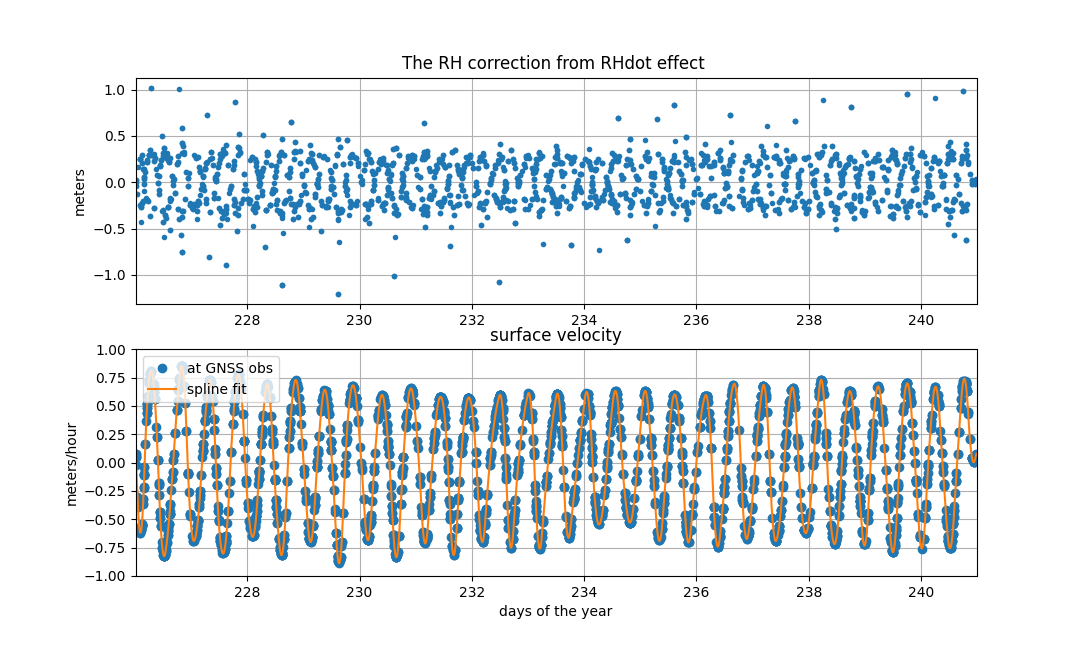
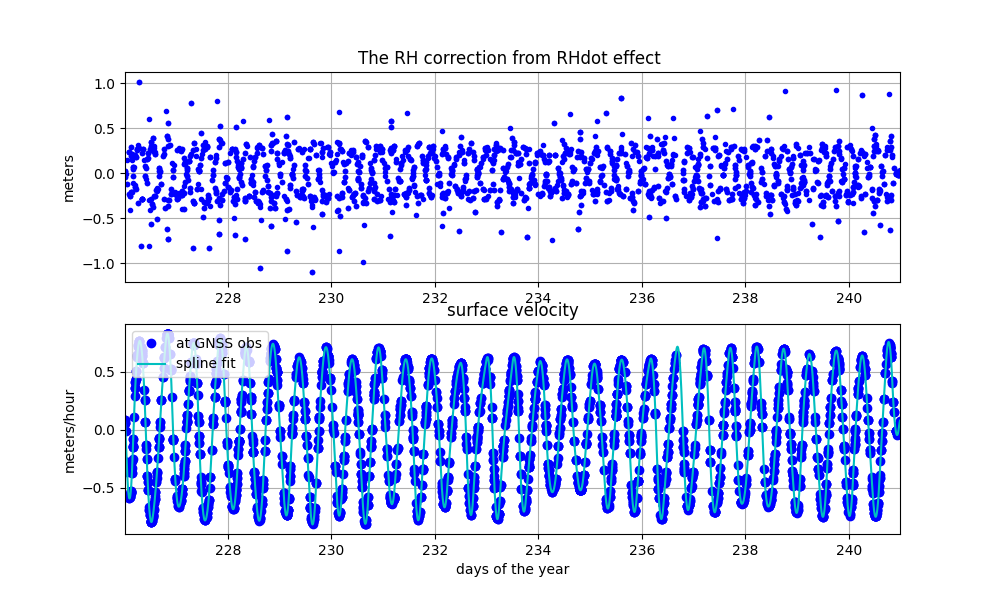
updated tggo use case

Changed region(s): [[0.062, 0.54, 0.899, 0.96], [0.062, 0.06, 0.899, 0.54]]

diff --git a/docs/use_cases/use_tggo.md b/docs/use_cases/use_tggo.md
@@ -30,7 +30,7 @@ We will compare that value with the estimated reflector height.
 ### Make a SNR file 
 
 Because the GNSS station is ~12 meters above the water, we are too close to the L1 Nyquist 
-for a receiver that is sampling at 30 seconds.  **I strongly urge you to use the 15 second files** that BFG started 
+for a receiver that is sampling at 30 seconds.  **You need to use the 15 second files** that BFG started 
 producing in summer 2022. If you use the 30 second files, some of your solutions will be inaccurate. Make the following choices:
 
 station : tggo00deu (the longer station name will tell the code to find RINEX 3 instead of RINEX 2.11)
@@ -39,13 +39,14 @@ archive : bfg
 
 orb : rapid (you can also use gnss if you prefer)
 
-samplerate : 15 (this is VERY IMPORTANT!!!!)
+samplerate : 15 
 
 <code>rinex2snr tggo00deu 2022 234 -archive bfg -orb rapid -samplerate 15</code>
 
 You will need a password for the BFG archive. This is available upon request by sending an e-mail to gnss@bafg.de.
 You will only need to enter the password once as <code>gnssrefl</code> will save it to your local system.
-While you can also find TGGO data at SONEL, it will likely be the 30 second data which is not as useful as the 15 second data.
+While you can also find TGGO data at SONEL, it will almost certainly be the 30 second data which is not acceptable 
+for L1 frequencies.
 
 ### First evaluation of the data for TGGO
 
@@ -53,20 +54,23 @@ I am going to use year 2022 and day of year 234 and frequency 20 (which means L2
 further restrict elevation angles to 5-15. In order to see the water, you need to set the reflector height
 limits to include the vertical distance to the water with the optional parameters h1 and h2.
 
-<code>quickLook tggo 2022 234 -fr 20 -e1 5 -e2 15 -h1 6 -h2 20</code>
+<code>quickLook tggo 2022 234 -fr 20 -e1 5 -e2 15 -h1 6 -h2 18</code>
 
 The first plot shows periodograms in the four geographic coordinates. 
 
-<img src=../_static/tggo_ql1.png width=600>
+<img src=../_static/tggo_ql2.png width=600>
 
 These are summarized below.  
 
-<img src=../_static/tggo_ql2.png width=600>
+<img src=../_static/tggo_ql1.png width=600>
 
 All three plots are with respect to azimuth in degrees. On the top plot, the "blue" retrievals show 
 that the GNSS antenna is indeed ~12 meters above the water. The variation in reflector 
-height (with respect to azimuth) are the tides. I've outlined in red the azimuth 
-region that shows consistently rejected retrievals. This roughly corresponds to where we saw the pier in the photograph.  
+height (with respect to azimuth) are the tides.  The poor retrieval region roughly corresponds to where we saw the pier in the photograph.  
+
+I kept the reflector height regions quite large since I was not sure how much the tides varied here.
+While it is ok to keep this region large, the **noise** metrics will likely need to be adjusted.
+In this case most of the good peak regions are above peak2noise of 4.
 
 ### Analyze the data
 
@@ -76,7 +80,7 @@ Go back and make SNR files for a longer time period:
 
 The next step is to save your analyis strategy using <code>gnssir_input</code>. 
 
-<code>gnssir_input tggo  -h1 6 -h2 20 -e1 5 -e2 15 -h1 6 -h2 18 -allfreq T -azlist2 30 180 270 330 </code>
+<code>gnssir_input tggo  -h1 6 -h2 18 -e1 5 -e2 15 -h1 6 -h2 18 -allfreq T -azlist2 30 180 270 330 -peak2noise 4</code>
 
 Now estimate reflector heights for these same dates: 
 
@@ -103,9 +107,7 @@ Time series with large outliers removed.
 
 <img src=../_static/tggo_3.png width=600>
  
-Additional corrections can be made using the <code>rhdot T</code> setting. In order to 
-compute the RHdot correction, we use a spline fit to our initial RH estimates. And then
-we will use the numpy algorithms to estimate RHdot anywhere from that:  
+In order to compute the RHdot correction, the code uses a spline fit to our initial RH estimates. 
 
 <img src=../_static/tggo_rhdot3.png width=600>
 
@@ -116,28 +118,26 @@ delT (length of the arc) of more than 60 minutes, whereas the vast
 majority of the arcs are less than 30 minutes. Such a long arc is 
 perfectly fine for computing snow depth or lake heights - significant 
 subdaily behavior is not expected. For tides where tidal rates are 
-significant, the gnssrefl code is not going to be able to use a simple fit to find the RH dot
+significant, as they are at this site, the gnssrefl code is not going to be 
+able to use a simple fit to find the RH dot
 correction. The best thing to do is to change the delT parameter in the json file to ignore these 
-long arcs. The default was 75; I changed mine to 35 minutes and 
-reran <code>gnssir</code> and then <code>subdaily</code>.
-You can see now that those RHdot outliers are gone:
+long arcs. The default was 75; I changed mine to 35 minutes. I also removed all the Galileo frequencies 
+are there aren't enough to be useful. I then reran <code>gnssir</code> and <code>subdaily</code>.
+You can see now that those big RHdot outliers are gone:
 
-<img src=../_static/tggo_delT_fixed.png width=600>
+<img src=../_static/tggo_fix1.png width=600>
 
-The statistics for the fits are then printed to the screen. In this case, without 
-the RHdot correction, the standard deviation of each RH value is 27.3 cm.
-WIth the RHdot correction it is 21.5 cm, so a significant improvement. Note that
-this is relative to the spline fit (i.e. it is not accuracy) and without correcting for phase center offsets.
-In comparisons with a tide gauge, the RMS is a bit better, 16-17 cm.  
+The statistics for the fits are then printed to the screen. Note, these are relative to a spline,
+which is not truth, but it is better than nothing.
 
-<img src=../_static/tggo_new.png width=600>
+<img src=../_static/tggo_fix2.png width=600>
 
 **Please note that the new RH values are being written to a new column!  Please look into the file.**
 
 
 The code will then remove interfrequency biases and recompute a spline:
 
-<img src=../_static/tggo_delT_fixed2.png width=600>
+<img src=../_static/tggo_fix3.png width=600>
 
 **Please note that the IF corrected RH values are being written to a new column!  Please look into the file.**
 
@@ -145,7 +145,9 @@ Overall this is a very good reflections site - but it is hampered by the lack of
 When this current receiver is upgraded to a newer model, I expect to see much better results.
 If someone would like to provide "truth" data, I could add a comparison.
 
-Kristine M. Larson November 21, 2022
+Updated 
+
+Kristine M. Larson June 29, 2023
 
 [Current status for station at WSV](https://www.pegelonline.wsv.de/gast/stammdaten?pegelnr=5970020)
 
